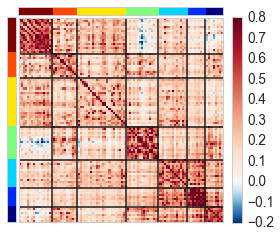
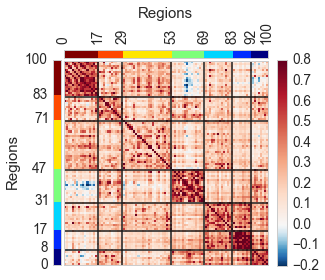
modif to add label to 2 matrix

diff --git a/multisite/main_paper/multisite.tex b/multisite/main_paper/multisite.tex
@@ -413,7 +413,7 @@ For all questions regarding the paper, please address correspondence to Pierre B
 
 \begin{figure}[tbp]
 \centering
-\includegraphics[width=0.50\textwidth]{../figures/samplesize_effectsize_pow80_alpha01.png}
+\includegraphics[width=0.65\textwidth]{../figures/samplesize_effectsize_pow80_alpha01.png}
 \caption[]{
 Sample-size in function of the effect-size for a detection power of 80\% using a threshold on the probability of having false-positive rate ($\alpha=0.01$) on a balanced dataset using an allocation ratio $W$ of 50\%.
 }
